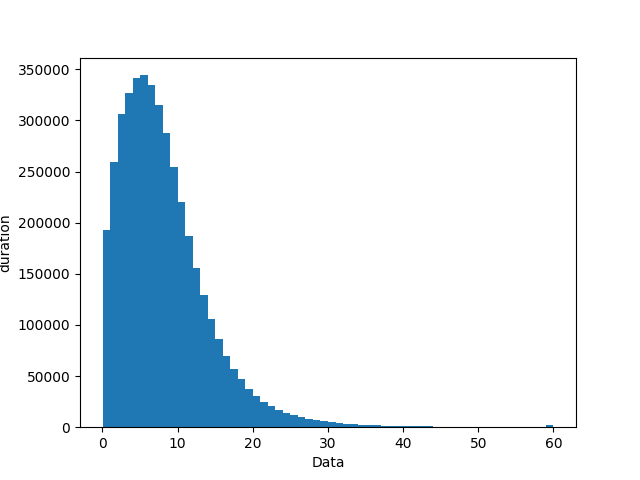
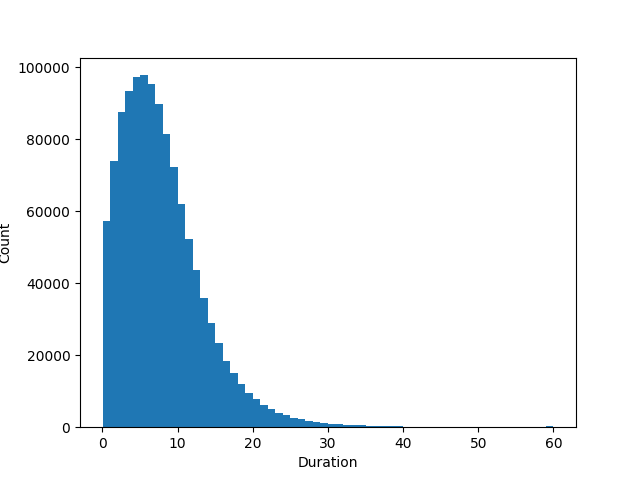
Added duration limit for utterances

diff --git a/bizspeech_prepare.py b/bizspeech_prepare.py
@@ -29,7 +29,7 @@ def time_str_to_seconds(time_str):
 class create_DataSet:
     """Class to create susets of Bizspeech dataset according to required native/nonnative speaker ratio, qna/presentation ratio."""
 
-    def __init__(self, dataPath, totalDuration, nonnative, qna, strict_included, non_CEO_utt, seed, trainValTest, included_events=[], excluded_events=[]):
+    def __init__(self, dataPath, totalDuration, nonnative, qna, strict_included, non_CEO_utt, seed, trainValTest, utterance_duration_limit, included_events=[], excluded_events=[]):
         """Init function.
 
         Args:
@@ -53,6 +53,7 @@ class create_DataSet:
         self.dataPath = dataPath
         self.non_CEO_utt = non_CEO_utt
         self.bizspeech_metadata = self.load_Bizspeech_metadata()
+        self.utterance_duration_limit = utterance_duration_limit
         if not included_events:
             included_events = list(self.bizspeech_metadata.keys())
         event_list = list(set(included_events) - set(excluded_events))
@@ -192,14 +193,16 @@ class create_DataSet:
                                                             1]["SentenceTimeGen"]
                             duration = int((time_str_to_seconds(utterance_end_time) - time_str_to_seconds(
                                 row["SentenceTimeGen"])) * 1000)
-                            self.dataset_dict[utterance_ID] = {
-                                "start": row["SentenceTimeGen"],
-                                "end": utterance_end_time,
-                                "spkID": row["SpeakerID"],
-                                "txt": row["Sentence"],
-                                "category": category_with_session
-                            }
-                            self.duration_dict_progress[category_with_session] += duration
+                            if int(duration / 1000) < self.utterance_duration_limit:
+                                self.dataset_dict[utterance_ID] = {
+                                    "start": row["SentenceTimeGen"],
+                                    "end": utterance_end_time,
+                                    "duration": duration,
+                                    "spkID": row["SpeakerID"],
+                                    "txt": row["Sentence"],
+                                    "category": category_with_session
+                                }
+                                self.duration_dict_progress[category_with_session] += duration
                         except TypeError:
                             print(event, sentence_ID)
             if i % 100 == 0:
@@ -217,11 +220,11 @@ class create_DataSet:
         return progress_complete
 
 
-def prepare_bizspeech_speechbrain(local_dataset_folder, data_folder, hours_reqd, nonnative=0.5, qna=0.5, strict_included=False, non_CEO_utt=False, seed=0, trainValTest=[0.6, 0.2], output_format="json", exclude_event_json=None, include_event_json=None):
+def prepare_bizspeech_speechbrain(local_dataset_folder, data_folder, hours_reqd, nonnative=0.5, qna=0.5, strict_included=False, non_CEO_utt=False, seed=0, trainValTest=[0.6, 0.2], output_format="json", exclude_event_json=None, include_event_json=None, utterance_duration_limit=30):
     """Entrypoint for speechbrain function that uses a method directly as a parameter.
 
     Args:
-    -----
+    ----
         - local_dataset_folder: Folder to store the dataset files train, val and test JSONs
         - data_folder : Location of the dataset
         - hours_reqd: total duration required for the subset. Used to calculate the sub totals according to ratios
@@ -234,6 +237,7 @@ def prepare_bizspeech_speechbrain(local_dataset_folder, data_folder, hours_reqd,
         - output_format: Specify the output format. json/csv
         - included_events: Specify the eventIDs to choose from first before moving on to other data
         - excluded_events: Specify the eventIDs to exlude when creating subset. Might include invalid data, etc.
+        - utterance_duration_limit: Specify the upper limit of utterance length in seconds to ignore
 
     """
     dest_dir = pathlib.Path(local_dataset_folder).resolve().parent
@@ -252,7 +256,7 @@ def prepare_bizspeech_speechbrain(local_dataset_folder, data_folder, hours_reqd,
             include_list = [item for sublist in list(
                 json.load(fh).values()) for item in sublist]
     datasetObj = create_DataSet(data_folder, hours_reqd, nonnative, qna, strict_included, non_CEO_utt,
-                                seed, trainValTest, included_events=include_list, excluded_events=exclude_list)
+                                seed, trainValTest, included_events=include_list, excluded_events=exclude_list, utterance_duration_limit=utterance_duration_limit)
     if output_format == "json":
         datasetObj.parse_to_json(local_dataset_folder)
     else:
@@ -290,6 +294,7 @@ if __name__ == '__main__':
             "trainValTest": hparams["trainValTest"],
             "output_format": hparams["output_format"],
             "include_event_json": hparams["include_event_json"],
-            "exclude_event_json": hparams["exclude_event_json"]
+            "exclude_event_json": hparams["exclude_event_json"],
+            "utterance_duration_limit": hparams["utterance_duration_limit"]
         },
     )

diff --git a/metadata/extreme_WERs.py b/metadata/extreme_WERs.py
@@ -1,0 +1,41 @@
+import pymongo
+import json
+import numpy as np
+import matplotlib.pyplot as plt
+with open("/m/triton/scratch/work/umashaa1/bizspeech/bizspeech_mongoatlas.json") as f1:
+    mongo_config = json.load(f1)
+
+client = pymongo.MongoClient("mongodb+srv://" + mongo_config["username"] + ":" +
+                             mongo_config["password"] + "@" + mongo_config["cluster_str"] + "/test?retryWrites=true&w=majority")
+with open("exclude_event_list.json") as fh:
+    exclude_list = [item for sublist in list(
+        json.load(fh).values()) for item in sublist]
+
+db = client[mongo_config["dbname"]]
+collections = {"google": db.run_summary_testset1,
+               "azure": db.run_summary_testset1_azure_srfixed}
+set_invlid = set()
+wer_invalid = []
+for collection in collections.keys():
+    for log in collections[collection].find({}):
+        if log["average_WER"] < 0:
+            if log["_id"] in exclude_list:
+                print("Already known")
+            else:
+                print(log["_id"])
+                set_invlid.add(log["_id"])
+        if log["average_WER"] > 70:
+            if log["_id"] in exclude_list:
+                print("Already known")
+            else:
+                print(log["_id"], log["average_WER"])
+                # wer_invalid.append(log["average_WER"])
+                # set_invlid.add(log["_id"])
+# density=False would make counts
+n, bins, patches = plt.hist(wer_invalid, bins=10)
+print(n, bins, patches)
+plt.ylabel('count')
+plt.xlabel('wer')
+plt.show()
+
+print([str(a) for a in list(set_invlid)])

diff --git a/metadata/uttarance_length_distribution.py b/metadata/uttarance_length_distribution.py
@@ -1,11 +1,11 @@
 import durations
 import matplotlib.pyplot as plt
 
-x = [x/1000 if x/1000 < 60 else 60 for x in durations.l]
+x = [x / 1000 if x / 1000 < 60 else 60 for x in durations.l]
 print(max(x))
 print(len(x))
-n,bins,patches = plt.hist(x, bins=60)  # density=False would make counts
-print(n,bins,patches)
-plt.ylabel('duration')
-plt.xlabel('Data')
+n, bins, patches = plt.hist(x, bins=60)  # density=False would make counts
+print(n, bins, patches)
+plt.ylabel('Count')
+plt.xlabel('Duration')
 plt.savefig('hist.png')
